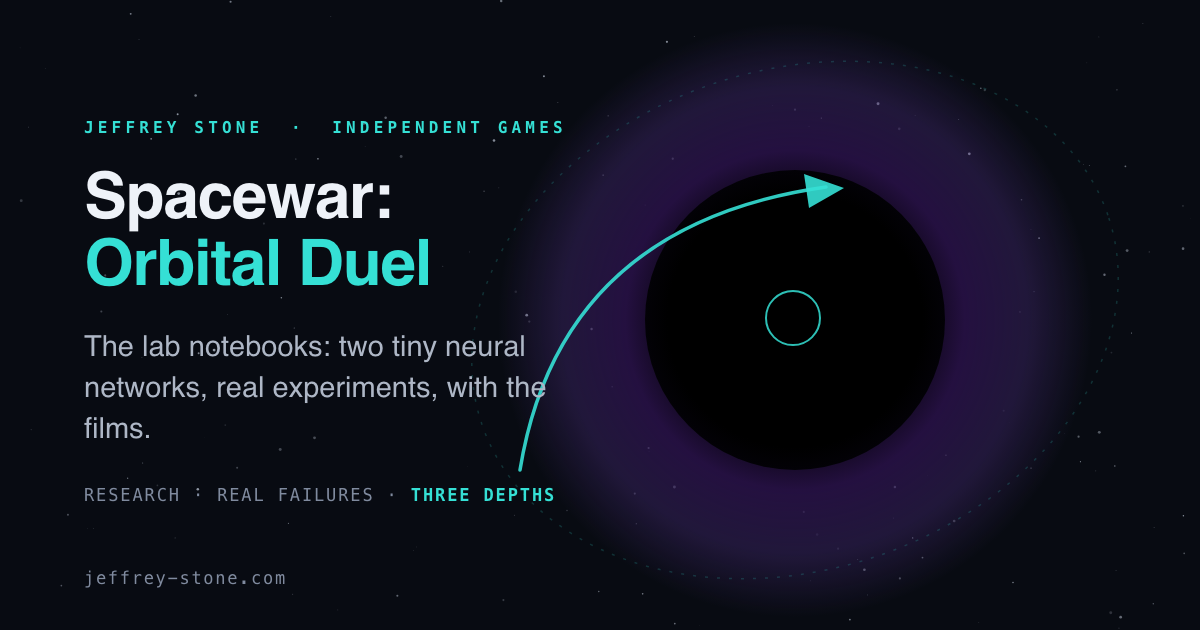
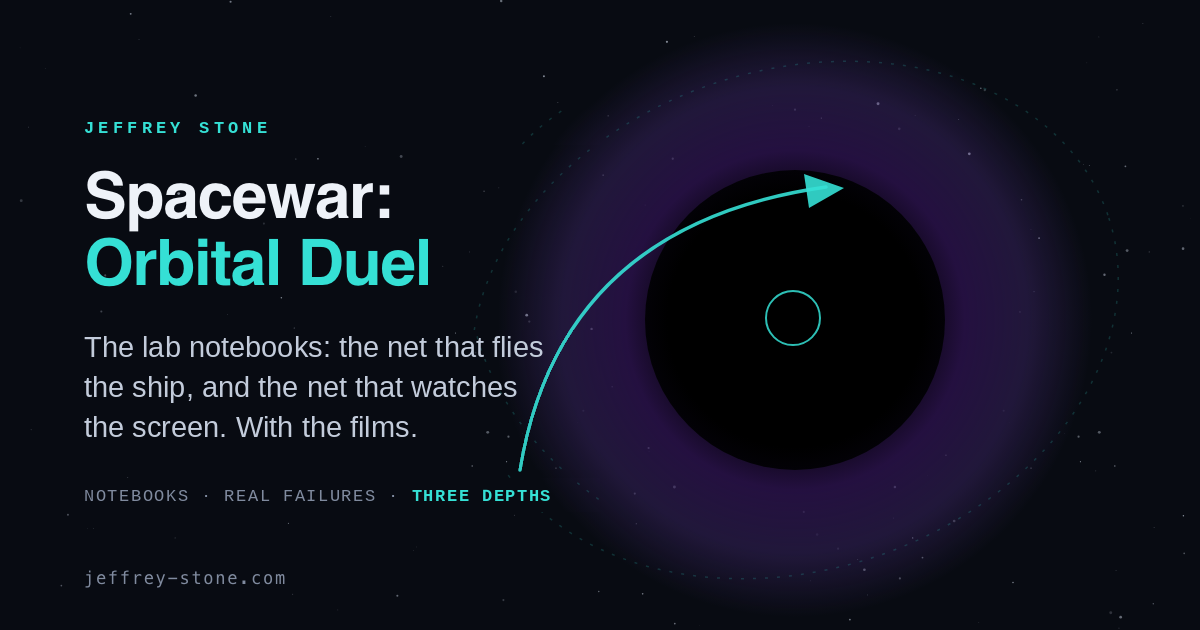
Publish site

diff --git a/spacewar/index.html b/spacewar/index.html
@@ -11,14 +11,14 @@
 <meta property="og:type" content="website">
 <meta property="og:site_name" content="Jeffrey Stone">
 <meta property="og:url" content="https://jeffrey-stone.com/spacewar/">
-<meta property="og:image" content="https://jeffrey-stone.com/assets/og-cover.png">
+<meta property="og:image" content="https://jeffrey-stone.com/assets/og-spacewar.png">
 <meta property="og:image:width" content="1200">
 <meta property="og:image:height" content="630">
 <meta property="og:image:alt" content="Spacewar: Orbital Duel, a ship riding a glowing cyan orbit around a black hole.">
 <meta name="twitter:card" content="summary_large_image">
 <meta name="twitter:title" content="Spacewar: Orbital Duel">
 <meta name="twitter:description" content="Battle at the singularity. iOS and Android, free, in beta.">
-<meta name="twitter:image" content="https://jeffrey-stone.com/assets/og-cover.png">
+<meta name="twitter:image" content="https://jeffrey-stone.com/assets/og-spacewar.png">
 <link rel="icon" type="image/svg+xml" href="../assets/icon.svg">
 <link rel="icon" href="../assets/apple-touch-icon.png" sizes="180x180">
 <link rel="apple-touch-icon" href="../assets/apple-touch-icon.png">

diff --git a/index.html b/index.html
@@ -14,7 +14,7 @@
 <meta property="og:image" content="https://jeffrey-stone.com/assets/og-cover.png">
 <meta property="og:image:width" content="1200">
 <meta property="og:image:height" content="630">
-<meta property="og:image:alt" content="Spacewar: Orbital Duel, a ship riding a glowing cyan orbit around a black hole.">
+<meta property="og:image:alt" content="Jeffrey Stone: Freedom to play. Spacewar: Orbital Duel and Rabbitbrush: Plant ID, beside a ship riding a cyan orbit around a black hole.">
 <meta name="twitter:card" content="summary_large_image">
 <meta name="twitter:title" content="Jeffrey Stone">
 <meta name="twitter:description" content="Spacewar: Orbital Duel and Rabbitbrush: Plant ID. Free, in beta.">
